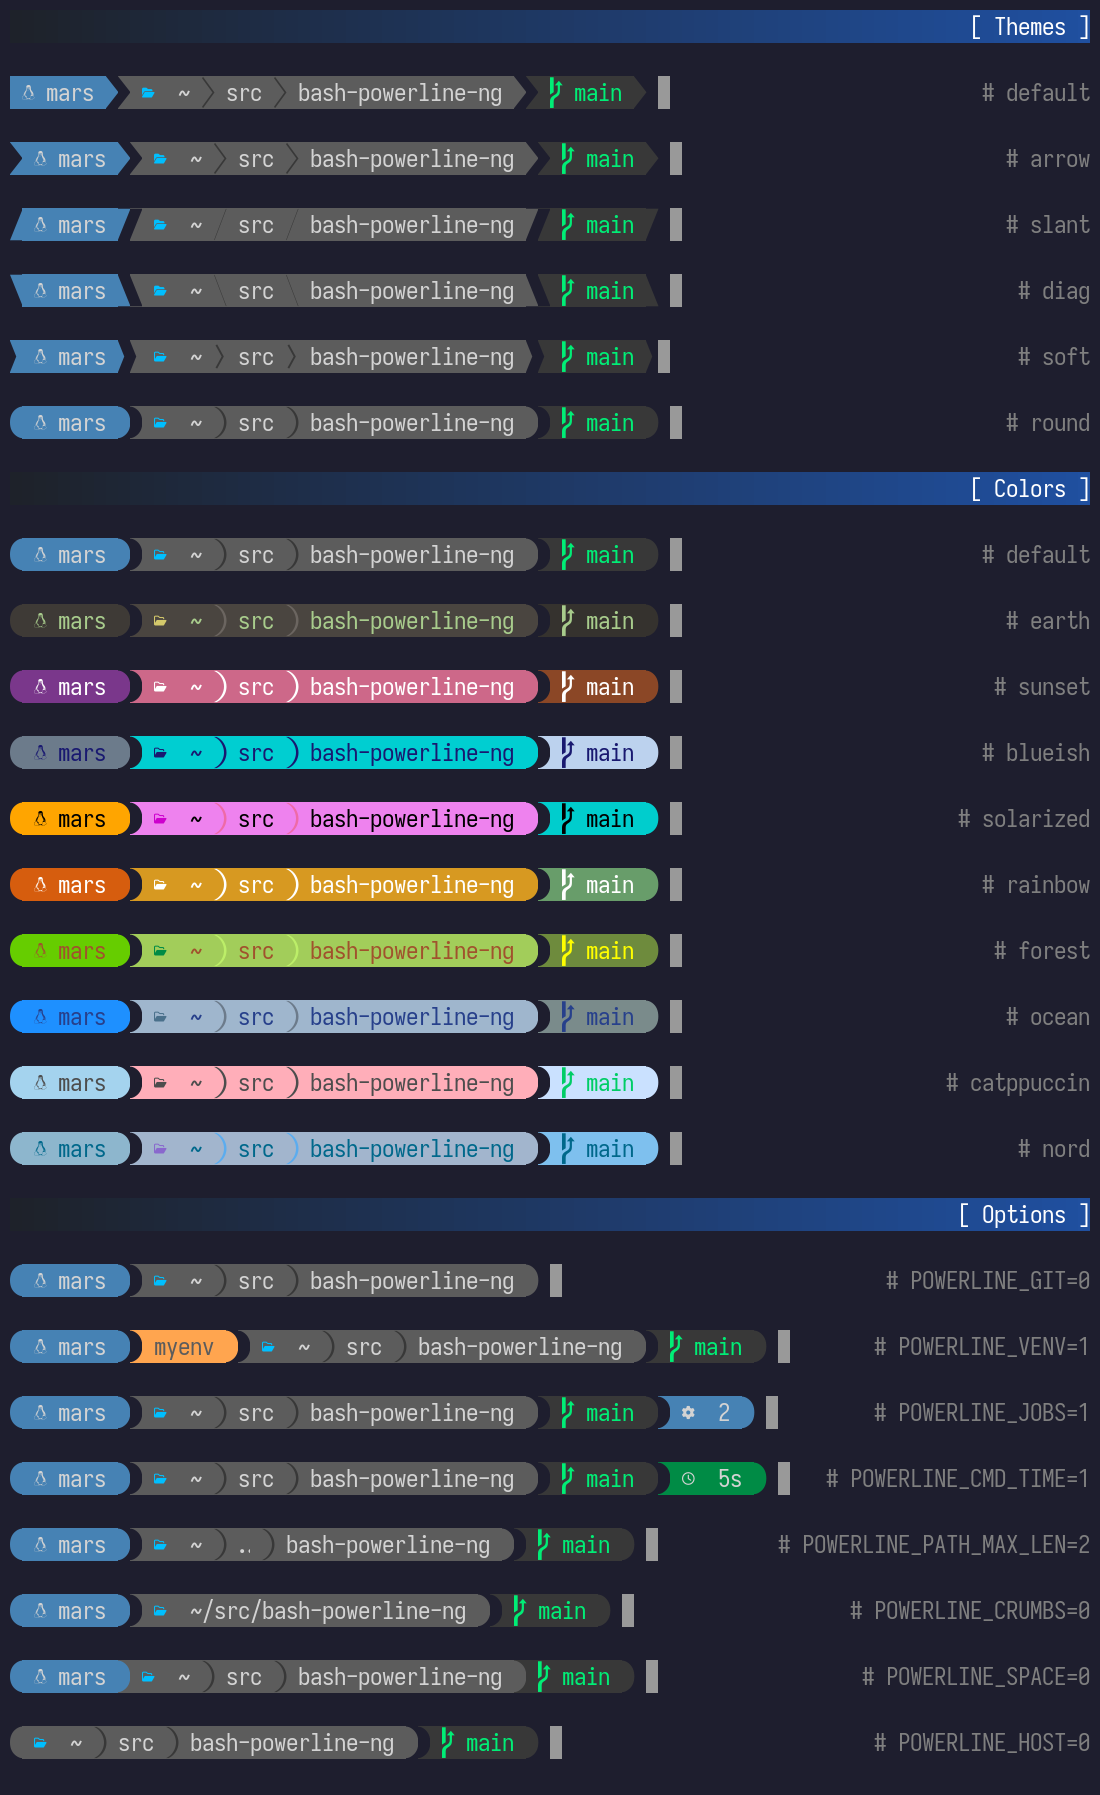
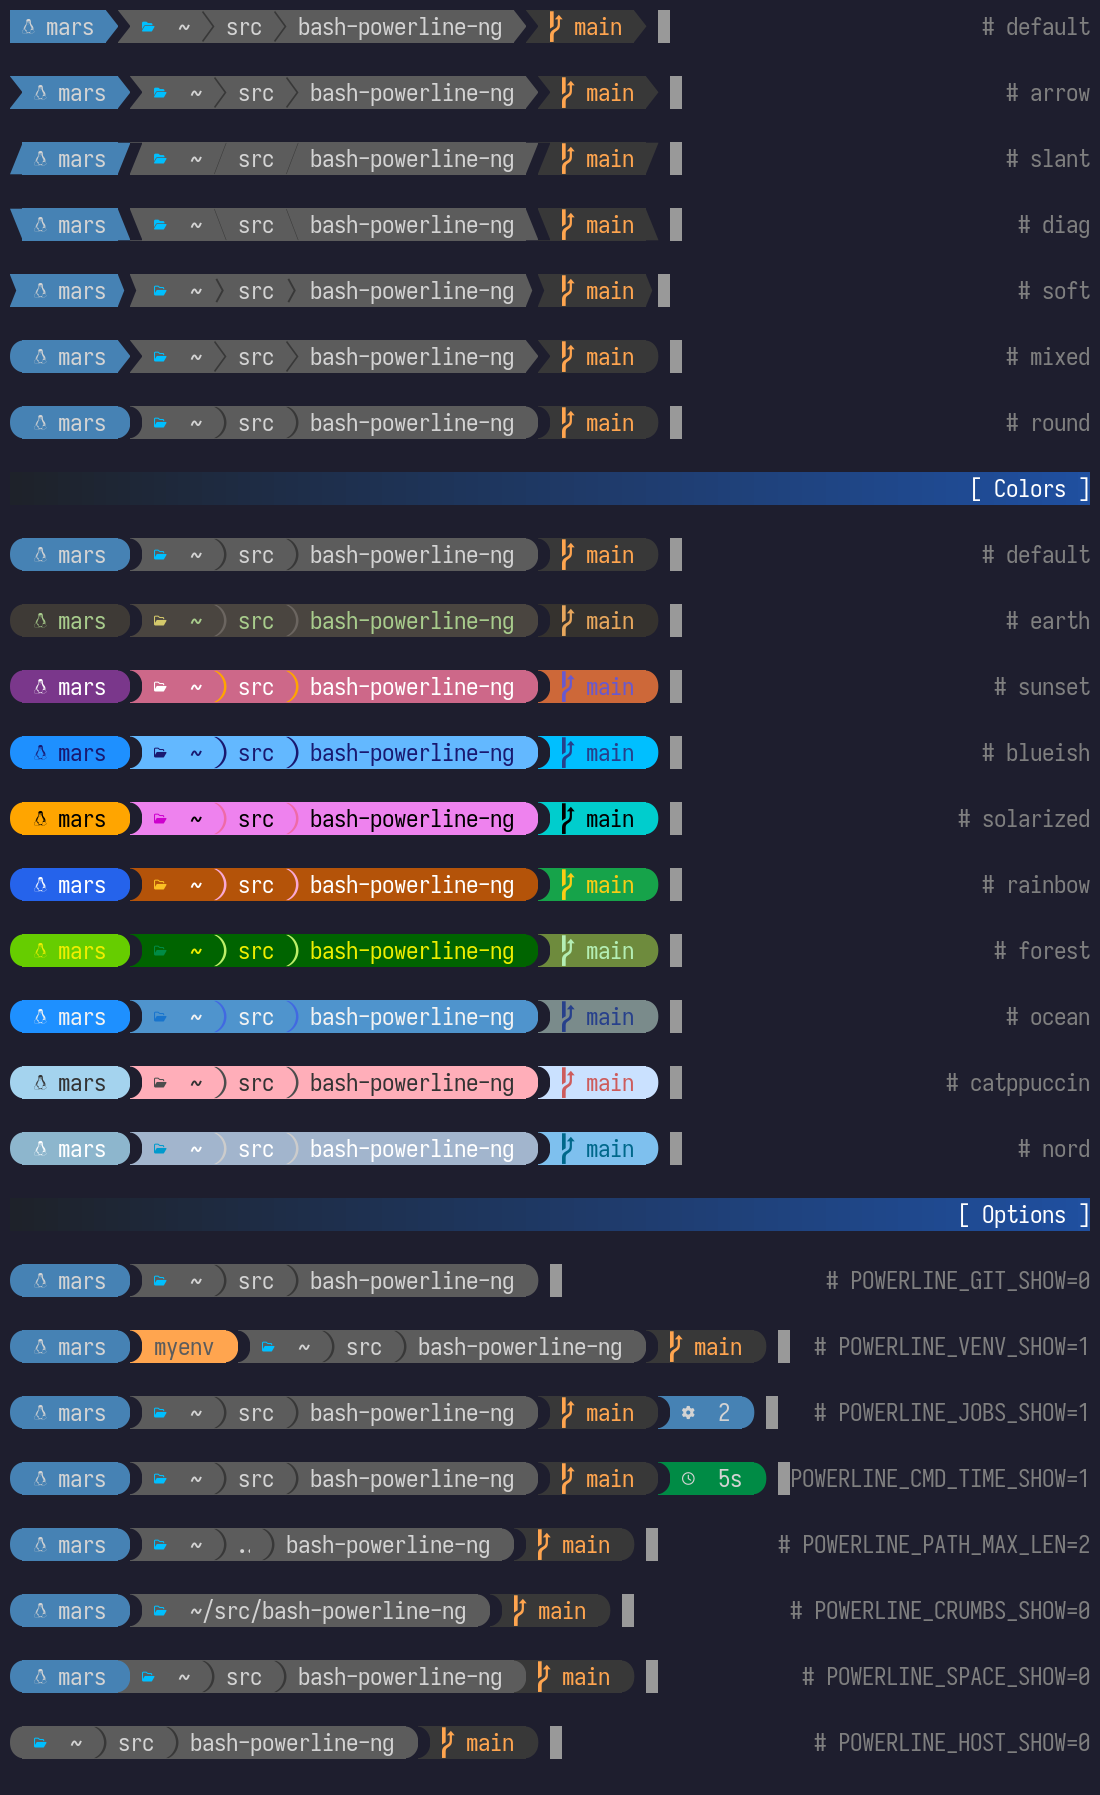
Refactor colors and add configurator
- switch prompt palettes to widget-specific fg/bg color pairs
- update segment rendering for independent host, venv, path, git, jobs, time, and failure colors
- add the interactive configure script and screenshot
- refresh README installation docs and screenshots
- format command time with compact day/hour/min/sec output

diff --git a/README.md b/README.md
@@ -3,7 +3,7 @@
 Minimalist, lightweight, usable and themable Powerline in pure Bash script.
 
 
-![bash-powerline-ng](https://raw.github.com/z4ziggy/bash-powerline-ng/master/screenshots/terminal.png)
+![bash-powerline-ng](https://raw.github.com/z4ziggy/bash-powerline-ng/main/screenshots/terminal.png)
 
 ## Features
 
@@ -19,15 +19,20 @@ Minimalist, lightweight, usable and themable Powerline in pure Bash script.
 
 ## Installation
 
-Download the script and source it from your `.bashrc`:
+Clone the repo and source `bash-powerline-ng` into your `.bashrc`:
 ```bash
-curl -fsSL https://raw.githubusercontent.com/z4ziggy/bash-powerline-ng/main/bash-powerline-ng.sh -o ~/.bash-powerline-ng.sh
-echo 'source ~/.bash-powerline-ng.sh' >> ~/.bashrc
+git clone https://github.com/z4ziggy/bash-powerline-ng.git
+cd bash-powerline-ng
+echo "source $PWD/bash-powerline-ng.sh" >> ~/.bashrc
 ```
 
-Override settings before sourcing, for example:
+You can use the `configure.sh` script to select theme, colors or change settings:
+
+![configure](https://raw.github.com/z4ziggy/bash-powerline-ng/main/screenshots/configure.png)
+
+Or manually override settings before sourcing, for example:
 ```bash
-POWERLINE_THEME=slant source ~/.bash-powerline-ng.sh
+POWERLINE_THEME=slant source $PWD/bash-powerline-ng.sh
 ```
 
 ## Why
@@ -35,4 +40,5 @@ POWERLINE_THEME=slant source ~/.bash-powerline-ng.sh
 Because [bash-powerline](https://github.com/riobard/bash-powerline) is great, but I wanted it to look nicer.
 
 ---
-_I'd tell you a UDP joke, but you probably wouldn't get it._
+_Q. How did the first program die?_
+_A. It was executed._